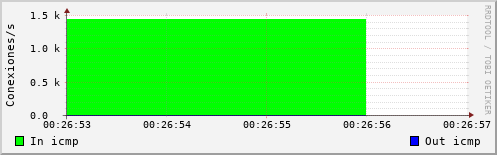
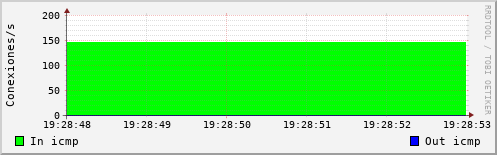
Integrating rrd graphs with functionality

diff --git a/AdministracionRedSNMP/templates/adminlte/verAgente.html b/AdministracionRedSNMP/templates/adminlte/verAgente.html
@@ -68,7 +68,7 @@
             <hr>
 
             <div class="card text-center">
-                    <img class="  center-block" src="{% static 'image.jpeg' %}" alt="Grafica" style="width:80%">
+                    <img class="  center-block" src="{% static 'gr_4cm3localhosticmp.png' %}" alt="Grafica" style="width:80%">
                     <div class="container ">
                       <h5><b>Trafico de red </b></h5>
                       <p>Comentario</p>

diff --git a/AdministracionRedSNMP/monitor/Grafica.py b/AdministracionRedSNMP/monitor/Grafica.py
@@ -2,14 +2,7 @@ import sys
 import rrdtool
 import time
 from . import SnmpGet 
-total_input_traffic = 0
-total_output_traffic = 0
-input_ping = 0
-output_ping= 0
-input_udp = 0
-output_udp = 0
-input_tcp = 0
-output_tcp= 0
+
 
 def iniciarGrafica1(hostname,versionSNMP,puerto,comunidad,nombreBase):
     ret = rrdtool.create('assets/'+nombreBase+'red.rrd',
@@ -21,11 +14,11 @@ def iniciarGrafica1(hostname,versionSNMP,puerto,comunidad,nombreBase):
     tiempoInicial = int(time.time())
     while 1:
         if (contadorDeGraficación < 1):
-            ret = rrdtool.graph(nombreBase + "red.png",
+            ret = rrdtool.graph('assets/'+nombreBase + "red.png",
                                 "--start", str(tiempoInicial),  # Abrir XML y checar un valor válido y existente
                                 #                "--end", "N",
-                                "--vertical-label=Bytes/s",
-                                "DEF:inoctets=" + nombreBase + "red.rrd:inoctets:AVERAGE",
+                                "--vertical-label=Equipo2TICMP",
+                                "DEF:inoctets=" +'assets/'+ nombreBase + "red.rrd:inoctets:AVERAGE",
                                 "AREA:inoctets#00FF00:InTrafico")
             contadorDeGraficación = 5
             tiempoInicial = int(time.time())
@@ -33,7 +26,7 @@ def iniciarGrafica1(hostname,versionSNMP,puerto,comunidad,nombreBase):
             total_input_traffic = int(SnmpGet.consultaSNMP(comunidad, hostname, puerto, versionSNMP, '1.3.6.1.2.1.2.2.1.10.1'))# el 3 es de grupo de interfaz y checar si funciona la inalambrica en la interfaz 3
             valor = "N:" + str(total_input_traffic)
             print(valor)
-            rrdtool.update(nombreBase + "red.rrd", valor)
+            rrdtool.update('assets/'+nombreBase + "red.rrd", valor)
             #rrdtool.dump(nombreBase + 'red.rrd', nombreBase + 'red.xml')
             time.sleep(1)
             contadorDeGraficación -= 1
@@ -76,7 +69,7 @@ def iniciarGrafica2(hostname,versionSNMP,puerto,comunidad,nombreBase):
 
 
 def iniciarGrafica3(hostname,versionSNMP,puerto,comunidad,nombreBase):
-    ret = rrdtool.create(nombreBase+'tcp.rrd',
+    ret = rrdtool.create('assets/'+nombreBase+'tcp.rrd',
                          "--start", 'N',  # N de now.
                          "--step", '1',
                          "DS:inconexiones:COUNTER:600:U:U",
@@ -87,12 +80,12 @@ def iniciarGrafica3(hostname,versionSNMP,puerto,comunidad,nombreBase):
     tiempoInicial = int(time.time())
     while 1:
         if (contadorDeGraficación < 1):
-            ret = rrdtool.graph(nombreBase + "tcp.png",
+            ret = rrdtool.graph('assets/'+nombreBase + "tcp.png",
                                 "--start", str(tiempoInicial),  # Abrir XML y checar un valor válido y existente
                                 #                "--end", "N",
                                 "--vertical-label=Bytes/s",
-                                "DEF:inconexiones=" + nombreBase + "tcp.rrd:inconexiones:AVERAGE",
-                                "DEF:outconexiones=" + nombreBase + "tcp.rrd:outconexiones:AVERAGE",
+                                "DEF:inconexiones=" + 'assets/' + nombreBase + "tcp.rrd:inconexiones:AVERAGE",
+                                "DEF:outconexiones=" + 'assets/' + nombreBase + "tcp.rrd:outconexiones:AVERAGE",
                                 "AREA:inconexiones#00FF00:InTCP",
                                 "LINE1:outconexiones#0000FF:OutTCP")
             contadorDeGraficación = 5
@@ -102,7 +95,7 @@ def iniciarGrafica3(hostname,versionSNMP,puerto,comunidad,nombreBase):
             output_tcp= int(SnmpGet.consultaSNMP(comunidad, hostname, puerto, versionSNMP, '1.3.6.1.2.1.6.11.0'))
             valor = "N:" + str(input_tcp) + ':' + str(output_tcp)
             print(valor)
-            rrdtool.update(nombreBase + "tcp.rrd", valor)
+            rrdtool.update('assets/'+nombreBase + "tcp.rrd", valor)
             #rrdtool.dump(nombreBase + 'tcp.rrd', nombreBase + 'tcp.xml')
             time.sleep(1)
             contadorDeGraficación -= 1
@@ -110,7 +103,7 @@ def iniciarGrafica3(hostname,versionSNMP,puerto,comunidad,nombreBase):
 
 
 def iniciarGrafica4(hostname,versionSNMP,puerto,comunidad,nombreBase):
-    ret = rrdtool.create(nombreBase+'udp.rrd',
+    ret = rrdtool.create('assets/'+nombreBase+'udp.rrd',
                          "--start", 'N',  # N de now.
                          "--step", '1',
                          "DS:inconexiones:COUNTER:600:U:U",
@@ -121,12 +114,12 @@ def iniciarGrafica4(hostname,versionSNMP,puerto,comunidad,nombreBase):
     tiempoInicial = int(time.time())
     while 1:
         if (contadorDeGraficación < 1):
-            ret = rrdtool.graph(nombreBase + "udp.png",
+            ret = rrdtool.graph('assets/'+nombreBase + "udp.png",
                                 "--start", str(tiempoInicial),  # Abrir XML y checar un valor válido y existente
                                 #                "--end", "N",
                                 "--vertical-label=Bytes/s",
-                                "DEF:inconexiones=" + nombreBase + "udp.rrd:inconexiones:AVERAGE",
-                                "DEF:outconexiones=" + nombreBase + "udp.rrd:outconexiones:AVERAGE",
+                                "DEF:inconexiones=" + 'assets/'+nombreBase + "udp.rrd:inconexiones:AVERAGE",
+                                "DEF:outconexiones=" + 'assets/'+nombreBase + "udp.rrd:outconexiones:AVERAGE",
                                 "AREA:inconexiones#00FF00:InUDP",
                                 "LINE1:outconexiones#0000FF:OutUDP")
             contadorDeGraficación = 5
@@ -136,7 +129,7 @@ def iniciarGrafica4(hostname,versionSNMP,puerto,comunidad,nombreBase):
             output_udp= int(SnmpGet.consultaSNMP(comunidad, hostname, puerto, versionSNMP, '1.3.6.1.2.1.7.4.0'))
             valor = "N:" + str(input_udp) + ':' + str(output_udp)
             print(valor)
-            rrdtool.update(nombreBase + "udp.rrd", valor)
+            rrdtool.update('assets/'+nombreBase + "udp.rrd", valor)
             #rrdtool.dump(nombreBase + 'udp.rrd', nombreBase + 'udp.xml')
             time.sleep(1)
             contadorDeGraficación -= 1
@@ -144,7 +137,7 @@ def iniciarGrafica4(hostname,versionSNMP,puerto,comunidad,nombreBase):
 
 
 def iniciarGrafica5(hostname,versionSNMP,puerto,comunidad,nombreBase):
-    ret = rrdtool.create(nombreBase+'ping.rrd',
+    ret = rrdtool.create('assets/'+nombreBase+'ping.rrd',
                          "--start", 'N',  # N de now.
                          "--step", '1',
                          "DS:inconexiones:GAUGE:600:U:U",
@@ -155,12 +148,12 @@ def iniciarGrafica5(hostname,versionSNMP,puerto,comunidad,nombreBase):
     tiempoInicial = int(time.time())
     while 1:
         if (contadorDeGraficación < 1):
-            ret = rrdtool.graph(nombreBase + "ping.png",
+            ret = rrdtool.graph('assets/'+nombreBase + "ping.png",
                                 "--start", str(tiempoInicial),  # Abrir XML y checar un valor válido y existente
                                 #                "--end", "N",
                                 "--vertical-label=Conexiones/s",
-                                "DEF:inconexiones=" + nombreBase + "ping.rrd:inconexiones:AVERAGE",
-                                "DEF:outconexiones=" + nombreBase + "ping.rrd:outconexiones:AVERAGE",
+                                "DEF:inconexiones=" + 'assets/'+nombreBase + "ping.rrd:inconexiones:AVERAGE",
+                                "DEF:outconexiones=" + 'assets/'+nombreBase + "ping.rrd:outconexiones:AVERAGE",
                                 "AREA:inconexiones#00FF00:In ping",
                                 "LINE1:outconexiones#0000FF:Out ping")
             contadorDeGraficación = 3
@@ -170,7 +163,7 @@ def iniciarGrafica5(hostname,versionSNMP,puerto,comunidad,nombreBase):
             output_ping= int(SnmpGet.consultaSNMP(comunidad, hostname, puerto, versionSNMP, '1.3.6.1.2.1.5.20.0'))
             valor = "N:" + str(input_ping) + ':' + str(output_ping)
             print(valor)
-            rrdtool.update(nombreBase + "ping.rrd", valor)
+            rrdtool.update('assets/'+nombreBase + "ping.rrd", valor)
             #rrdtool.dump(nombreBase + 'ping.rrd', nombreBase + 'ping.xml')
             time.sleep(1)
             contadorDeGraficación -= 1

diff --git a/AdministracionRedSNMP/monitor/views.py b/AdministracionRedSNMP/monitor/views.py
@@ -11,10 +11,15 @@ import json
 import os
 import time
 from . import forms
+from . import ObtenerInformacion
 
 # Create your views here.
 def index(request):
-    lanzaProceso2()
+    #lanzaProceso1()
+    #lanzaProceso2()
+    #lanzaProceso3()
+    #lanzaProceso4()
+    #lanzaProceso5()
     return render(request, 'adminlte/index.html')
 
 def verAgentes(request):
@@ -124,22 +129,44 @@ def obtenerInfo(request, nombreHost):
     versionSNMP = 2
     comunidad = 'gr_4cm3'"""
     #print(nombreHost)
-    diccionario = {'host': nombreHost}
+    data = obtenerInfoAgenteByHostname(nombreHost)
+    #diccionario = {'host': nombreHost}
+    #print(data)
+    detallesAgente =ObtenerInformacion.obtenerInfo(data[0], data[2], data[1], data[3])
+    print("DETALLES")
+    print(detallesAgente)
+    context = {'detallesAgente':detallesAgente,
+                'nombreHost': nombreHost}
 
-    #diccionario={'descripcion':SnmpGet.consultaSNMP(comunidad,hostname,puerto,versionSNMP, '1.3.6.1.2.1.1.1.0'), 'icmp':SnmpGet.consultaSNMP(comunidad,hostname,puerto,int(2),'1.3.6.1.2.1.5.1.0 ')}
-    #diccionario = {} ## AQUI VA LA LLAMADA A LA FUNCIÓN
+    #diccionario = ObtenerInformacion.obtenerInfo()
     #jsonArray = json.dumps(diccionario)
     #json_Serialized = serializers.serialize('json',jsonArray)
     
     # DEBERIA MOSTRAR INFO DEL AGENTE
-    print(diccionario)
+    #print(diccionario)
     #context = {'object':diccionario}
-    context = diccionario
+    #context = diccionario
     return render(request,'adminlte/verAgente.html',context)
 
 
-
 ##Not used to HTTP ###
+
+
+def obtenerInfoAgenteByHostname(hostname):
+    a = staticfiles_storage.path("Agentes.txt")
+    #a = url = static('Agentes.txt')
+    archivo = open(a, 'r')
+    lineas=archivo.readlines()
+    #print(lineas)
+    lista = []
+
+    for linea in lineas:
+        print(linea)
+        array = linea.split(",")
+        if hostname == array[4]:
+            return array
+    else:
+        return None
 
 
 

diff --git a/AdministracionRedSNMP/monitor/SnmpGet.py b/AdministracionRedSNMP/monitor/SnmpGet.py
@@ -17,4 +17,50 @@ def consultaSNMP(comunidad, host,puerto,version, oid):
         for varBind in varBinds:
             varB = (' = '.join([x.prettyPrint() for x in varBind]))
             resultado = varB.split()[2]
+            print(resultado)
+    return resultado
+
+def consultaSNMPSO(comunidad, host,puerto,version, oid):
+    puerto=int(puerto)
+    version=int(version)-1
+    errorIndication, errorStatus, errorIndex, varBinds = next(
+        getCmd(SnmpEngine(),
+               CommunityData(comunidad, mpModel=version),
+               UdpTransportTarget((host, puerto)),
+               ContextData(),
+               ObjectType(ObjectIdentity(oid))))
+
+    if errorIndication:
+        print(errorIndication)
+    elif errorStatus:
+        print('%s at %s' % (errorStatus.prettyPrint(), errorIndex and varBinds[int(errorIndex) - 1][0] or '?'))
+    else:
+        for varBind in varBinds:
+            varB = (' = '.join([x.prettyPrint() for x in varBind]))
+            if("Linux" in str(varB)):
+                return "Linux"
+            if("Windows" in str(varB)):
+                return "Windows"
+    return str(varB)
+
+
+
+def consultaSNMPCompleta(comunidad, host, puerto, version, oid):
+    puerto=int(puerto)
+    version=int(version)-1
+    errorIndication, errorStatus, errorIndex, varBinds = next(
+        getCmd(SnmpEngine(),
+               CommunityData(comunidad, mpModel=version),
+               UdpTransportTarget((host, puerto)),
+               ContextData(),
+               ObjectType(ObjectIdentity(oid))))
+
+    if errorIndication:
+        print(errorIndication)
+    elif errorStatus:
+        print('%s at %s' % (errorStatus.prettyPrint(), errorIndex and varBinds[int(errorIndex) - 1][0] or '?'))
+    else:
+        for varBind in varBinds:
+            varB = ('='.join([x.prettyPrint() for x in varBind]))
+            resultado = varB.split('=')[1]
     return resultado

diff --git a/AdministracionRedSNMP/monitor/ObtenerInformacion.py b/AdministracionRedSNMP/monitor/ObtenerInformacion.py
@@ -1,0 +1,16 @@
+from . import SnmpGet
+
+
+def obtenerInfo(hostname, puerto, versionSNMP,comunidad):
+    puerto=int(puerto)
+    versionSNMP= int(versionSNMP)
+    diccionario={'so':SnmpGet.consultaSNMPSO(comunidad,hostname,puerto,versionSNMP, '1.3.6.1.2.1.1.1.0'),
+                 'tiempoReinicio':SnmpGet.consultaSNMPCompleta(comunidad,hostname,puerto,versionSNMP,'1.3.6.1.2.1.1.3.0'),
+                 'locacion':SnmpGet.consultaSNMPCompleta(comunidad,hostname,puerto,versionSNMP,'1.3.6.1.2.1.1.6.0'),
+                 'nombre': SnmpGet.consultaSNMP(comunidad, hostname, puerto, versionSNMP, '1.3.6.1.2.1.1.5.0'),
+                 'interfaces':SnmpGet.consultaSNMP(comunidad, hostname, puerto, versionSNMP, '1.3.6.1.2.1.2.1.0'),
+                 'contacto':SnmpGet.consultaSNMP(comunidad, hostname, puerto, versionSNMP, '1.3.6.1.2.1.1.4.0'),
+                 'host':hostname
+                 }
+    #print(diccionario)
+    return diccionario

diff --git a/TEST/SnmpGet.py b/TEST/SnmpGet.py
@@ -18,3 +18,9 @@ def consultaSNMP(comunidad, host,puerto,version, oid):
             varB = (' = '.join([x.prettyPrint() for x in varBind]))
             resultado = varB.split()[2]
     return resultado
+
+
+
+res = consultaSNMP('equipo2_4cm3','10.100.72.207',161,2,'1.3.6.1.2.1.1.5')
+print(res)
+	
